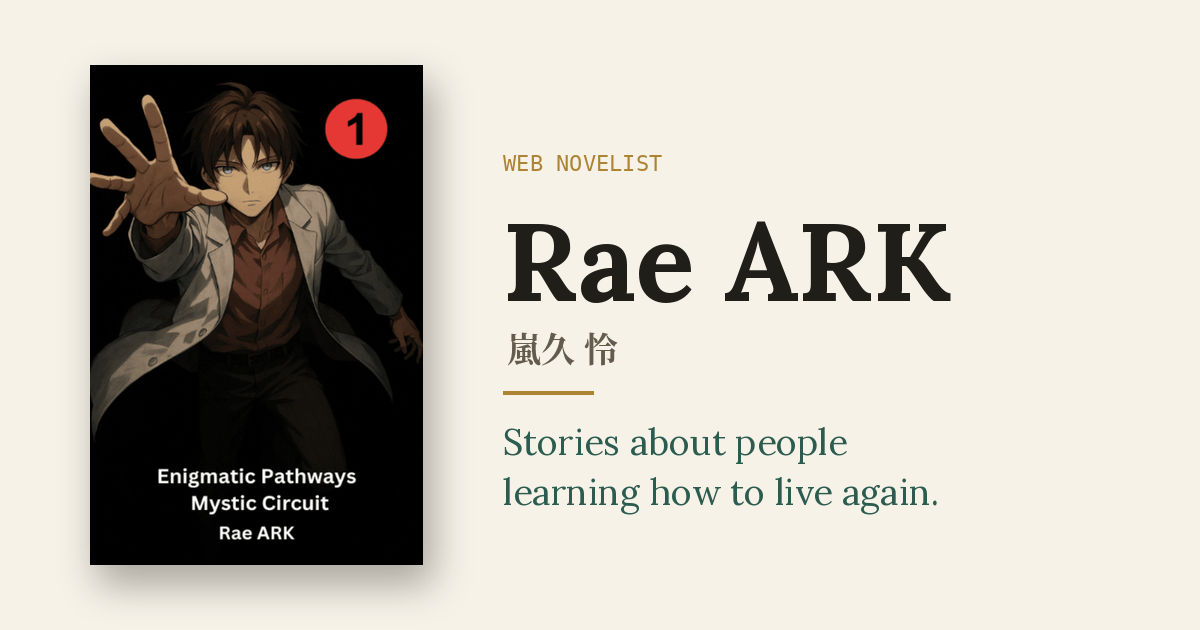
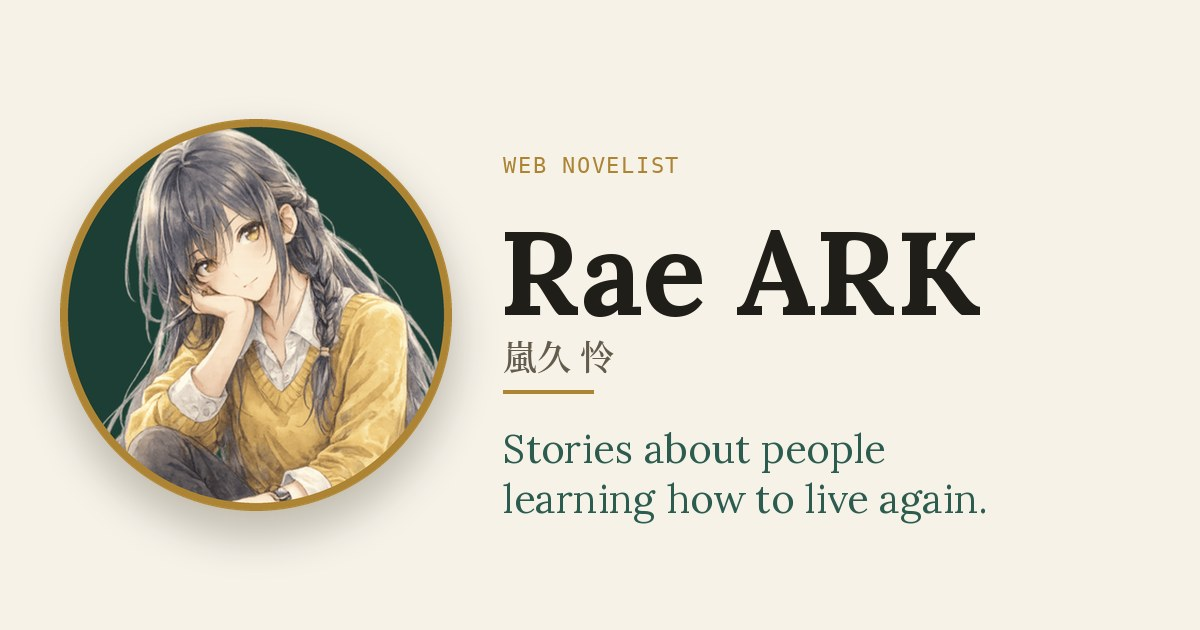
Accessibility update

Changed region(s): [[0.0308, 0.0905, 0.8325, 0.9651], [0.4008, 0.6635, 0.8325, 0.8444], [0.4008, 0.2413, 0.5858, 0.2714]]

diff --git a/src/styles/main.css b/src/styles/main.css
@@ -256,6 +256,7 @@ header.site-header {
 .avatar,
 .avatar-large {
   background-image: url('/assets/images/profile.png');
+  background-image: image-set(url('/assets/images/profile.webp') type("image/webp"), url('/assets/images/profile.png') type("image/png"));
 }
 
 .brand .name {
@@ -575,6 +576,11 @@ section.alt-bg {
 /* Cover: real artwork via background-image, with a colour fallback
    so a missing file never shows a broken-image icon. */
 
+/* Images ship as WebP with the original PNG next to it. Each rule first
+   declares the PNG, then an image-set() with a type() hint; a browser that
+   can't parse image-set()/type() ignores the second line and keeps the PNG,
+   and one that parses it but can't decode WebP picks the PNG entry. */
+
 .cover {
   position: relative;
   aspect-ratio: 2 / 3;
@@ -586,16 +592,19 @@ section.alt-bg {
 
 .cover.epmc {
   background-image: url("/assets/images/Enigmatic Pathways Mystic Circuits vol 1.png");
+  background-image: image-set(url("/assets/images/Enigmatic Pathways Mystic Circuits vol 1.webp") type("image/webp"), url("/assets/images/Enigmatic Pathways Mystic Circuits vol 1.png") type("image/png"));
   background-color: #2e4a42;
 }
 
 .cover.sbm {
   background-image: url("/assets/images/Summoned By Mistake, I Decided To Learn How To Live Arc 1.png");
+  background-image: image-set(url("/assets/images/Summoned By Mistake, I Decided To Learn How To Live Arc 1.webp") type("image/webp"), url("/assets/images/Summoned By Mistake, I Decided To Learn How To Live Arc 1.png") type("image/png"));
   background-color: #3b4a46;
 }
 
 .cover.stbf {
   background-image: url("/assets/images/The Shadow I Cast Over Two Beautiful Girls Act 1.png");
+  background-image: image-set(url("/assets/images/The Shadow I Cast Over Two Beautiful Girls Act 1.webp") type("image/webp"), url("/assets/images/The Shadow I Cast Over Two Beautiful Girls Act 1.png") type("image/png"));
   background-color: #6b3a3a;
 }
 
@@ -710,21 +719,25 @@ section.alt-bg {
 
 .work-thumb.epmc {
   background-image: url("/assets/images/Enigmatic Pathways Mystic Circuits vol 1.png");
+  background-image: image-set(url("/assets/images/Enigmatic Pathways Mystic Circuits vol 1.webp") type("image/webp"), url("/assets/images/Enigmatic Pathways Mystic Circuits vol 1.png") type("image/png"));
   background-color: #2e4a42;
 }
 
 .work-thumb.sbm {
   background-image: url("/assets/images/Summoned By Mistake, I Decided To Learn How To Live Arc 1.png");
+  background-image: image-set(url("/assets/images/Summoned By Mistake, I Decided To Learn How To Live Arc 1.webp") type("image/webp"), url("/assets/images/Summoned By Mistake, I Decided To Learn How To Live Arc 1.png") type("image/png"));
   background-color: #3b4a46;
 }
 
 .work-thumb.sbm2 {
   background-image: url("/assets/images/Summoned By Mistake, I Decided To Learn How To Live Arc 3.png");
+  background-image: image-set(url("/assets/images/Summoned By Mistake, I Decided To Learn How To Live Arc 3.webp") type("image/webp"), url("/assets/images/Summoned By Mistake, I Decided To Learn How To Live Arc 3.png") type("image/png"));
   background-color: #3b4a46;
 }
 
 .work-thumb.stbf {
   background-image: url("/assets/images/The Shadow I Cast Over Two Beautiful Girls Act 1.png");
+  background-image: image-set(url("/assets/images/The Shadow I Cast Over Two Beautiful Girls Act 1.webp") type("image/webp"), url("/assets/images/The Shadow I Cast Over Two Beautiful Girls Act 1.png") type("image/png"));
   background-color: #6b3a3a;
 }
 

diff --git a/index.html b/index.html
@@ -18,14 +18,14 @@
   <meta property="og:title" content="Rae ARK — Web Novelist">
   <meta property="og:description" content="Fantasy and science-fantasy stories about people rebuilding themselves — reincarnation, isekai, and the quiet work of learning how to live again.">
   <meta property="og:url" content="https://rae-ark.horizonarkstudio.workers.dev/">
-  <meta property="og:image" content="https://rae-ark.horizonarkstudio.workers.dev/assets/images/og-card.jpg">
+  <meta property="og:image" content="https://rae-ark.horizonarkstudio.workers.dev/assets/images/og-card.jpg?v=2">
   <meta property="og:image:width" content="1200">
   <meta property="og:image:height" content="630">
   <meta property="og:image:alt" content="Rae ARK, web novelist, beside the cover of Enigmatic Pathways Mystic Circuits">
   <meta name="twitter:card" content="summary_large_image">
   <meta name="twitter:title" content="Rae ARK — Web Novelist">
   <meta name="twitter:description" content="Fantasy and science-fantasy stories about people rebuilding themselves.">
-  <meta name="twitter:image" content="https://rae-ark.horizonarkstudio.workers.dev/assets/images/og-card.jpg">
+  <meta name="twitter:image" content="https://rae-ark.horizonarkstudio.workers.dev/assets/images/og-card.jpg?v=2">
   <meta name="theme-color" content="#f6f2e8">
 
   <script>

diff --git a/src/data/works.ts b/src/data/works.ts
@@ -115,8 +115,8 @@ export const currentlyWriting = [
  * Hero "mood card" (see proposal 0009). Each mood points at one story; the
  * card shows that story's own summary and Royal Road link, so only the
  * prompt is written here. EPMC is first and is the default card.
- * The EPMC prompt is the author's own wording; the SBM and STBF prompts
- * are reviewer drafts for the author to reword.
+ * The EPMC prompt is the author's own wording. The SBM and STBF prompts
+ * were reworded at the author's request (no longer reviewer drafts).
  */
 export interface Mood {
   prompt: string
@@ -125,6 +125,6 @@ export interface Mood {
 
 export const moods: Mood[] = [
   { prompt: 'In the mood for something a bit different?', workSlug: 'epmc' },
-  { prompt: 'Want something gentler — slow, human, a little strange?', workSlug: 'sbm' },
-  { prompt: 'Rather read something short, written to reach its ending?', workSlug: 'stbf' },
+  { prompt: 'Want something quieter — a fresh start, with an AI for company?', workSlug: 'sbm' },
+  { prompt: 'Want a shorter story, built from the start to reach its ending?', workSlug: 'stbf' },
 ]

diff --git a/docs/implementation/changelog.md b/docs/implementation/changelog.md
@@ -4,6 +4,39 @@ Shipped changes that resolve a proposal or an audit finding. Newest first.
 
 ## 2026-10-10 (latest)
 
+### WebP images, new share card, mood prompts reworded
+
+- **WebP with PNG fallback (proposal [0010](../proposals/0010-accessibility-and-polish.md) item 4, partly):**
+  the four covers and `profile.png` now have a `.webp` copy beside the
+  original (cover payload 91+143+380+257 KB of PNG → 25+40+33+53 KB of
+  WebP; profile 70 → 31 KB). Every `background-image: url(...png)` in
+  `main.css` is followed by an `image-set()` with `type("image/webp")` and
+  `type("image/png")`, so a browser that can't parse it, or can't decode
+  WebP, keeps the PNG. AVIF was not used: it is newer and not supported
+  everywhere. Not done: renaming the "Girls" cover file.
+- **Share card:** `og-card.jpg` re-rendered with the profile picture
+  (circle, brass ring, same dark-green backdrop as the site avatar) in place
+  of the EPMC cover; text and layout unchanged. It stays a JPEG because
+  link-preview scrapers don't all read WebP. The `og:image` and
+  `twitter:image` URLs gained `?v=2`, because the filename is unchanged and
+  `/assets/*` is cached as immutable, so scrapers and browsers would
+  otherwise keep the old card.
+- **Mood prompts:** the SBM and STBF prompts were reworded at the author's
+  request ("Want something quieter — a fresh start, with an AI for
+  company?" and "Want a shorter story, built from the start to reach its
+  ending?"). The comment in `data/works.ts` and proposal 0009 no longer
+  call them drafts.
+- Files: `src/styles/main.css`, `src/data/works.ts`, `index.html`,
+  `public/assets/images/` (5 new `.webp`, new `og-card.jpg`, `README.txt`),
+  `docs/`.
+- Verification: `npm run build` passes; the minified CSS keeps both the
+  PNG line and the `image-set()` line for every rule. In headless Chromium
+  against the production preview, the covers and avatar were requested as
+  `.webp` (200) and the first mood prompt renders. **Not checked:** the
+  PNG fallback in a browser without WebP or `image-set()` `type()` support,
+  Safari, a real phone, the Android/desktop shells, the SBM/STBF prompts on
+  screen (only the data was changed), or the card in a link-preview tool.
+
 ### YouTube button in the header
 
 - Added a YouTube icon button to the header's icon group (between X and

diff --git a/docs/proposals/0010-accessibility-and-polish.md b/docs/proposals/0010-accessibility-and-polish.md
@@ -34,11 +34,12 @@
    contrast in both themes.
 3. **Dynamic menu label** in `AppHeader.vue`:
    `:aria-label="navOpen ? 'Close menu' : 'Open menu'"`.
-4. **Image optimisation.** Convert covers to WebP at their displayed
-   sizes and keep the PNGs only where Android launcher/splash assets need
-   them. Rename the "Girls" file to match the title and update the `url()`
-   references in `main.css` and the note in `public/assets/images/README.txt`.
-   Bump `CACHE_VERSION` in `public/sw.js` if cached paths change.
+4. **Image optimisation.** *Shipped as WebP with the PNG kept as the
+   fallback (not AVIF: it is newer and not supported everywhere).* The
+   remaining part: rename the "Girls" file to match the title and update the
+   `url()` references in `main.css` and the note in
+   `public/assets/images/README.txt`; bump `CACHE_VERSION` in
+   `public/sw.js` if cached paths change.
 5. **Load `neutralino.js` only in the desktop build.** Preferred approach:
    have `neutralinoShell.ts` inject the script when the runtime's
    `NL_*` globals are present, then remove the tag from `index.html`.

diff --git a/docs/proposals/README.md b/docs/proposals/README.md
@@ -11,8 +11,8 @@ yet implemented**. Each proposal carries a status.
 | --- | --- | --- |
 | [0007](0007-store-page-redesign.md) | Site-wide modern CSS motion, starting with the Store page | Proposed (Store shipped) |
 | [0008](0008-discoverability-spa.md) | Discoverability for a client-rendered SPA (review stage 1) | Accepted (shipped, awaiting browser check) |
-| [0009](0009-reader-conversion.md) | Turning visitors into readers, incl. hero mood card (review stage 2) | Accepted (shipped, awaiting copy sign-off) |
-| [0010](0010-accessibility-and-polish.md) | Accessibility and polish (review stage 3) | Proposed |
+| [0009](0009-reader-conversion.md) | Turning visitors into readers, incl. hero mood card (review stage 2) | Accepted (shipped, awaiting author verification) |
+| [0010](0010-accessibility-and-polish.md) | Accessibility and polish (review stage 3) | Proposed (item 4, WebP, shipped) |
 | [0011](0011-maintainability.md) | Content workflow and measurement (review stage 4) | Proposed |
 
 Proposals 0001–0006 were implemented and have been removed from this

diff --git a/docs/proposals/0008-discoverability-spa.md b/docs/proposals/0008-discoverability-spa.md
@@ -79,7 +79,7 @@
 - The Book markup deliberately has no price or offer data; none is stored
   in `data/store.ts`. Rich-result eligibility may therefore be limited.
 - Files under `public/` are also bundled into the Android and desktop
-  builds, so they carry `og-card.jpg` (~60 KB) with them.
+  builds, so they carry `og-card.jpg` (~70 KB) with them.
 
 ## Non-goals
 
@@ -95,9 +95,10 @@
   a `main` entry to `wrangler.jsonc` and `run_worker_first` routing. Worth
   it only if per-page previews matter; not part of this stage.
 - ~~Which image should be the default share card?~~ Resolved for now:
-  `og-card.jpg` is generated from the EPMC cover (the author's number-one
-  pick) beside the name and tagline. Swap the file at any time; the tags
-  point at the path, not the content.
+  `og-card.jpg` shows the author's profile picture beside the name and
+  tagline (it first used the EPMC cover). Swap the file at any time; the
+  tags point at the path, so bump the `?v=` on the `og:image` and
+  `twitter:image` URLs when the content changes.
 
 ## Verification
 

diff --git a/docs/proposals/0009-reader-conversion.md b/docs/proposals/0009-reader-conversion.md
@@ -1,8 +1,7 @@
 # 0009 — Turning visitors into readers (Stage 2 of the site review)
 
 - **Status:** Accepted — shipped (see [changelog](../implementation/changelog.md)).
-  Stays open until the SBM/STBF mood prompts are approved and the Verification
-  list is done by the author.
+  Stays open until the Verification list is done by the author.
 - **Priority:** 2
 - **Constraint:** SPA. Everything here is client-side or a static file.
 
@@ -95,8 +94,8 @@
 
 - Mood copy: the EPMC prompt ("In the mood for something a bit different?")
   is the author's own wording. The SBM and STBF prompts in `data/works.ts`
-  are reviewer drafts and still need the author's wording (and a decision on
-  which stories appear).
+  were reworded at the author's request; which stories appear is settled
+  (all three).
 - Should the card cycle by default? It does now; a static card with a
   "Show me another" button is the lower-motion alternative.
 - Feed items all link to `/journal` because journal entries have no
